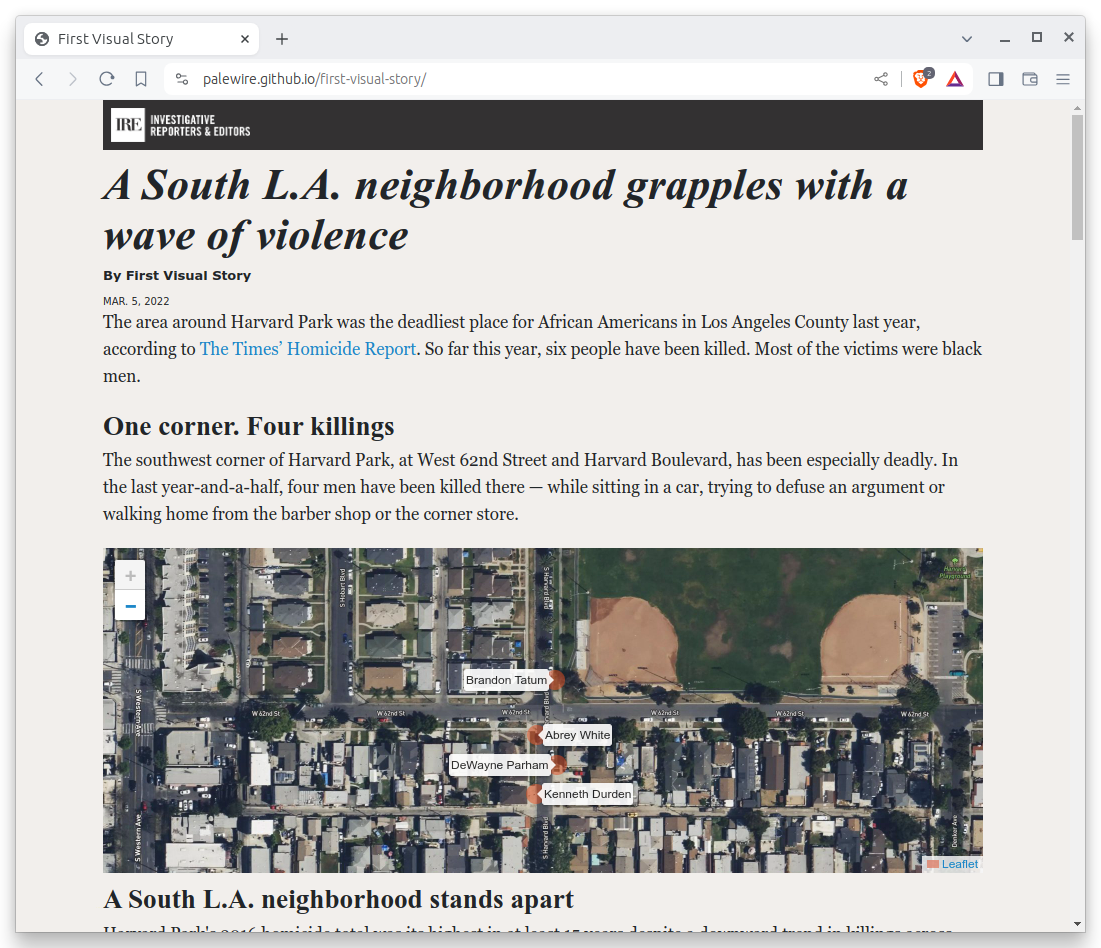
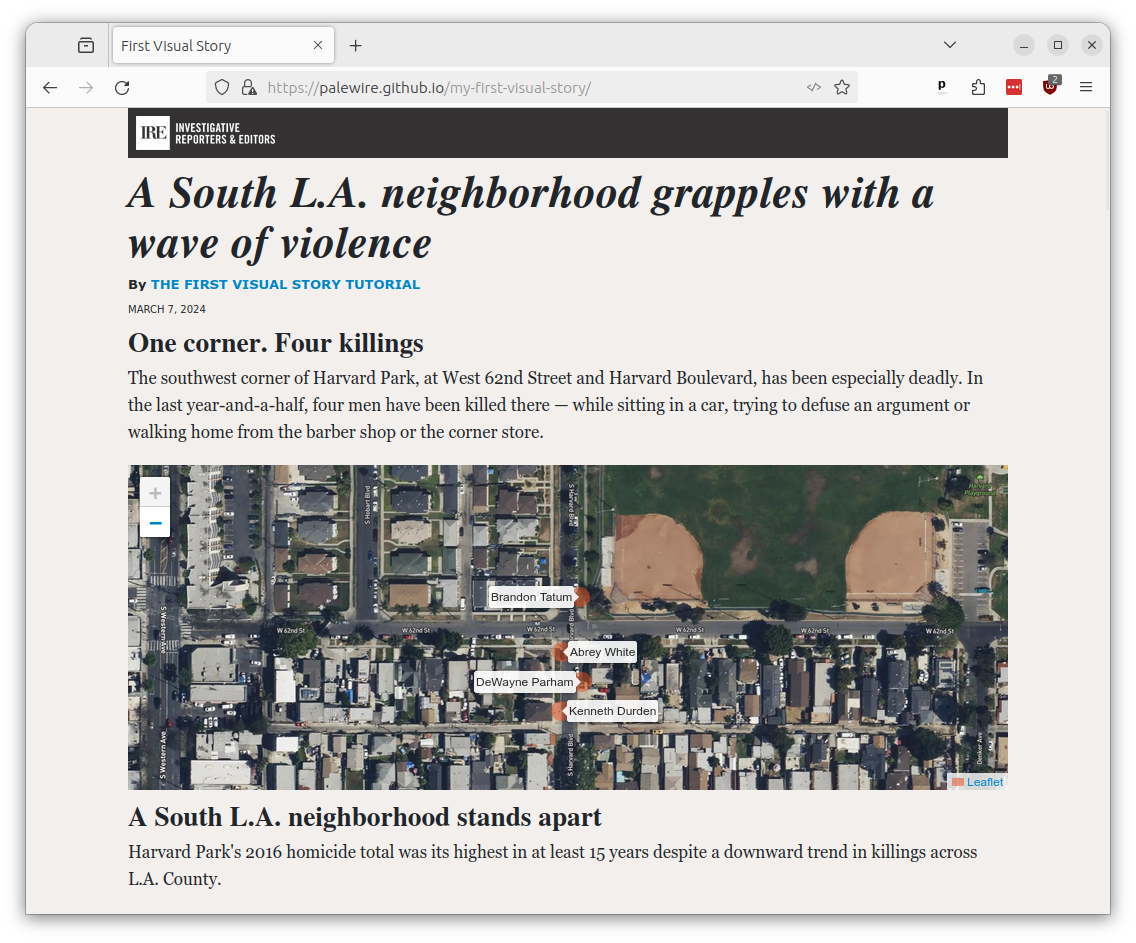
Done deal

diff --git a/tutorial/scripts.md b/tutorial/scripts.md
@@ -1,16 +1,16 @@
 # Scripts
 
-Next we'll move on to creating a map focused on West 62nd Street and Harvard Boulevard, an intersection in South Los Angeles where four men died in less than a year and a half.
+Next we'll move on to our final graphic element: a map focused on West 62nd Street and Harvard Boulevard, an intersection in South Los Angeles where four men died in less than a year and a half. To do this, we'll need yet another programming language, and perhaps the most important one for the web: JavaScript.
 
 ## What is JavaScript?
 
-To draw the map we will rely on [Leaflet](http://leafletjs.com), a JavaScript library for creating maps. JavaScript is a programming language that is primarily used to create interactive websites. JavaScript code is typically executed directly by the browser, so it can run on the user's computer, which allows for faster and more responsive websites, as well as a better user experience.
+[JavaScript](https://en.wikipedia.org/wiki/JavaScript) is a programming language that can be run by a browser. It powers almost every interactive feature on the web, from simple animations to complicated applications like Google Maps. It is also the language that powers the interactivity in the Datawrapper charts we embedded in an earlier chapter.
 
-Learning how to write JavaScript and everything it takes to create a Leaflet map is beyond the scope of this class, But, as with CSS, we can cover the broad outlines of how JavaScript code is included in a framework.
+To draw our map we will rely on [Leaflet](http://leafletjs.com), a JavaScript library that makes it easy to make a map. Learning how to write JavaScript and everything it takes to create a Leaflet map is beyond the scope of this class, But, as with CSS, we can quickly cover the broad outlines of how JavaScript code is included in a framework.
 
 ## The entrypoint
 
-Most of today's frameworks offer a file that is the starting point for the JavaScript code execution. Commonly known as the entrypoint, it is booted up in your page template when the page loads. In the case of baker, that file is called `app.js` and it is found in the `scripts` directory. You can put whatever JavaScript code you'd like in the folder, but it's the `app.js` file that will be the first to run.
+Most of today's frameworks offer a file that is the starting point for the JavaScript code execution. Commonly known as the entrypoint, it is booted up when the page loads. In the case of baker, that file is called `app.js` and it is found in the `scripts` directory. You can put whatever JavaScript code you'd like in the folder, but it's the `app.js` file that will be the first to run.
 
 Let's test it out by opening up `app.js` and insert a single, simple line of JavaScript.
 
@@ -20,13 +20,19 @@ alert("Hello World");
 
 Save the file and reload your page. You should see a popup that reads "Hello World," an action triggered by JavaScript's built-in [`alert`](https://developer.mozilla.org/en-US/docs/Web/API/Window/alert) function.
 
+![](_static/alert.png)
+
 ## Installing dependencies
 
-Before we start writing code there, we'll need to install Leaflet. Since it is maintained by a community of volunteers and not included with Node.js by default, we will need to download it using the `npm` tool we used earlier. That can be done by providing Leaflet's unique identifier [in the Node Package Manager](https://www.npmjs.com/package/leaflet) to the npm install` command.
+Before we start writing code there, we'll need to install Leaflet. Since it is maintained by a community of volunteers and not included with Node.js by default, we will need to download it using the `npm` tool we used earlier. That can be done by providing Leaflet's unique identifier [in the Node Package Manager](https://www.npmjs.com/package/leaflet) to the `npm install` command. Hit `CTRL-C` to stop the server and run the following command in your terminal.
 
 ```bash
 npm install leaflet
 ```
+
+You should see it print something like this:
+
+![](_static/install-leaflet.png)
 
 Next we import Leaflet's stylesheets in `styles/app.scss` so that they are also included on our site. We do this by using `@use` and the path to a file.
 
@@ -88,7 +94,17 @@ homicides.forEach((obj) => {
 });
 ```
 
-If you save the file, the code will run but your map will not appear. That's because we need to connect our JavaScript to the `div` container on our page that will hold the map. Leaflet does this by accepting the `id` element of the destination `div`. Edit `app.js` to set the `divId` variable that's now defined to our id. Make sure to put it in quotes.
+Save the file. Return to your terminal and restart the test server with:
+
+```bash
+npm start
+```
+
+Your map will not appear.
+
+![](_static/no-map.png)
+
+That's because we need to connect our JavaScript to the `div` container on our page that will hold the map. Leaflet does this by accepting the `id` element of the destination `div`. Edit `app.js` to set the `divId` variable that's now defined to our id. Make sure to put it in quotes.
 
 ```{code-block} javascript
 :emphasize-lines: 8
@@ -125,11 +141,9 @@ homicides.forEach((obj) => {
 });
 ```
 
-Here's what you should see after you do that.
+Here's what you should see after you do that. A real map.
 
-```{image} _static/hello-tooltips.gif
-:width: 100%
-```
+![](_static/yes-map.png)
 
 ## Styling the data
 
@@ -145,9 +159,7 @@ Next let's add some styles to our page to make the circles match the orange colo
 
 After you save, here's what you'll get.
 
-```{image} _static/orange-circles.png
-:width: 100%
-```
+![](_static/orange-dots.png)
 
 ## Some final touches
 
@@ -164,35 +176,38 @@ homicides.forEach(obj => {
 ```
 Here they are.
 
-```{image} _static/permanent-tooltips.png
+```{image} _static/tooltips.png
 :width: 100%
 ```
 
 Finally, let's preface the map with a headline and introductory paragraph
 
 ```{code-block} html
-:emphasize-lines: 1-2
+:emphasize-lines: 1-7
 
 <h3>One corner. Four killings</h3>
-<p>The southwest corner of Harvard Park, at West 62nd Street and Harvard Boulevard, has been especially deadly. In the last year-and-a-half, four men have been killed there — while sitting in a car, trying to defuse an argument or walking home from the barber shop or the corner store.</p>
+<p>
+   The southwest corner of Harvard Park, at West 62nd Street and Harvard Boulevard,
+   has been especially deadly. In the last year-and-a-half, four men have been
+   killed there — while sitting in a car, trying to defuse an argument or
+   walking home from the barber shop or the corner store.
+</p>
 <div id="map"></div>
 ```
 
-```{image} _static/map-deck.png
-:width: 100%
-```
+![](_static/map-top.png)
 
 Congratulations. You've created a custom map. Before we get on to the business of sharing it with the world, we need a couple more pieces here.
 
 Hey. How about a headline for the whole package? We also need a byline and a lead for the whole piece.
 
 ```{code-block} html
-:emphasize-lines: 1-2,8
+:emphasize-lines: 1-5
 
 {% block headline %}A South L.A. neighborhood grapples with a wave of violence{% endblock headline %}
 {% block byline %}By <a href="https://palewi.re/docs/first-visual-story/">The First Visual Story Tutorial</a>{% endblock byline %}
 {% block pubdate %}
-    <time datetime="2024-03-09" pubdate>March 9, 2024</time>
+    <time datetime="2024-03-07" pubdate>March 7, 2024</time>
 {% endblock pubdate %}
 
 {% block content %}
@@ -203,11 +218,11 @@ Hey. How about a headline for the whole package? We also need a byline and a lea
 <div id="map"></div>
 ```
 
-```{image} _static/final-lead.png
-:width: 100%
-```
+![](_static/got-it-all.png)
 
-Add our work.
+With that,  you've got a complete package. Before we move on to publishing your piece, you know what you need to do.
+
+Add your work.
 
 ```bash
 git add .
@@ -225,4 +240,4 @@ Push to GitHub.
 git push origin main
 ```
 
-Now we're ready. Let’s do it live.
+Now you’re ready. Let’s do it live.

diff --git a/tutorial/internet.md b/tutorial/internet.md
@@ -2,18 +2,13 @@
 
 In in our last chapter, all the work we've done will finally be published online.
 
-```{contents} Sections
-  :depth: 1
-  :local:
-```
-
 ## The importance of being static
 
 Our baker framework, with its tools, structure and shortcuts, has served us well. It's been a great place to experiment, organize and develop our work. But it's useless to our readers — it's the kitchen. We want our readers to have the cake.
 
-What we want to present them are the HTML, JavaScript and CSS files generated by baker. We'll need to upload these finished files to the web.
+We need to publish HTML, JavaScript and CSS files generated by baker. We don't need the Node.JS code we used to develop them.
 
-That process — converting a dynamic, living website to simple files living on the filesystem — is a common strategy for publishing news sites. It goes by different names, like "flattening," "freezing" or "baking."
+The process of converting a dynamic, living website to simple files living on the filesystem is a common strategy for publishing news sites. It goes by different names, like "flattening," "freezing" or "baking."
 
 Whatever you call it, it’s a solid path to cheap, stable hosting for simple sites. It is used across the industry for publishing election results, longform stories, special projects and numerous other things.
 
@@ -33,7 +28,9 @@ Examples of static news pages in the wild include:
 
 Lucky for us, baker is pre-configured to flatten our dynamic site. And GitHub has a hosting service for publishing static pages.
 
-Open the `baker.config.js` file at the root of the project. We will instruct it to `output` files to the `docs` directory instead of `_dist` and set the name of our GitHub repository as the `domain`.
+Open the `baker.config.js` file at the root of the project. It's the control room where we can adjust how baker works.
+
+To fit our work with GitHub’s publishing system, will instruct baker to `output` files to the `docs` directory instead of `_dist` and set the name of our GitHub repository as the `domain`. That will require you to make three careful changes to what you see in the file, highlighted below. Take a moment to do that now.
 
 ```{code-block} javascript
 :emphasize-lines: 7,8,12
@@ -114,19 +111,19 @@ git push origin main
 
 Go to the repository on GitHub. Click on the "Settings" tab.
 
-![github settings](_static/github-settings.png)
+![github settings](_static/repo-homepage.png)
 
 Click on the “Pages” tab in the left-hand sidebar.
 
-![pages tab button](_static/github-pages-tab.png)
+![pages tab button](_static/repo-settings.png)
 
 In the “Source” section select the `main` branch and the `/docs` folder. Hit `Save`.
 
-![pages tab config](_static/github-pages-config.png)
+![pages tab config](_static/configure-pages.png)
 
 This will result in any files pushed to the `./docs` directory of your repository being published on the web. For free.
 
-Wait a few moments and visit [\<your_username>.github.com/first-visual-story/](https://palewire.github.io/first-visual-story/). You should see your app published live on the World Wide Web.
+Wait a few minutes and then visit [\<your_username>.github.com/first-visual-story/](https://palewire.github.io/first-visual-story/). You should see your app published live on the World Wide Web.
 
 [![The finished app](_static/preview.png)](https://palewire.github.io/first-visual-story/)
 
